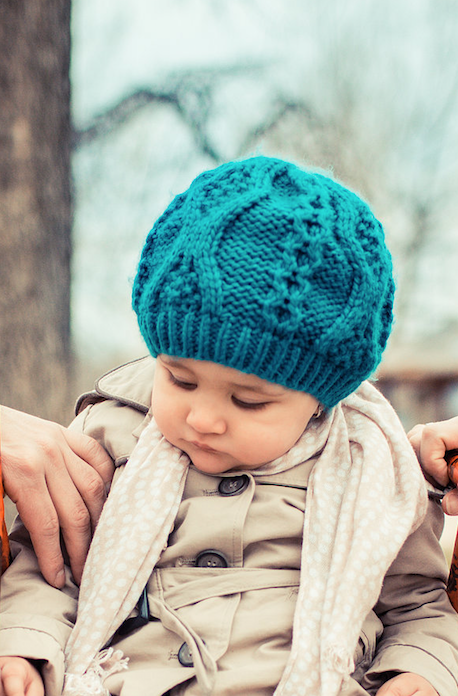
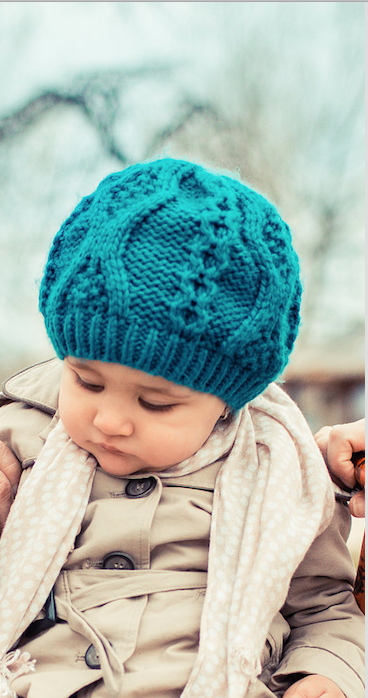
mobile and tablet views

diff --git a/app/assets/stylesheets/_home.scss b/app/assets/stylesheets/_home.scss
@@ -14,14 +14,6 @@ body{
   justify-content: space-between;
 
 }
-// .header-home-title h2{
-//   width: 25%;
-//   font-size: 45px;
-//   color: $darkblue;
-//   margin-left: 2%;
-//   letter-spacing: 1px;
-//   font-weight: 500;
-// }
 .header-home-title img{
   width: 29%;
   height: 65px;
@@ -41,39 +33,23 @@ body{
 }
 .central-home{
   background-image: url('baby2.png');
+  background-repeat: no-repeat;
   width: 100%;
   height: 549px;
-  //@extend .clearfix;
-  content: " "; /* 1 */
-  display: table; /* 2 */
-  clear: both;
-
+  display: flex;
+  flex-direction: row;
+  justify-content: space-between;
 }
 
 .text-1-3{
-  width: 22%;
-  //@extend .clearfix;
-  content: " "; /* 1 */
-  display: table; /* 2 */
-  clear: both;
-  float: left;
-  position: absolute;
+  width: 290px;
   background: rgba(255,255,255,0.4);
   color: $darkblue;
-  height: 564px;
-  padding: 10px 10px 10px 10px;
 }
 .text-3-3{
-  width: 22%;
-  //@extend .clearfix;
-  content: " "; /* 1 */
-  display: table; /* 2 */
-  clear: both;
-  float: right;
+  width: 290px;
   background: rgba(255,255,255,0.4);
   color: $darkblue;
-  height: 564px;
-  padding: 10px 10px 10px 10px;
 }
 .text-1-3 p,.text-3-3 p{
   font-size: 17px;
@@ -144,7 +120,8 @@ body{
   }
 }
 
-@media (max-width: 774px) and (min-width: 551px){      //TABLET
+//TABLET VIEW
+@media (max-width: 774px) and (min-width: 491px){
   .header-home-title img{
     width: 55%;
   }
@@ -152,25 +129,34 @@ body{
     background-image: url('baby-tablet.png');
     background-size: 780px 800px;
   }
-  .text-1-3{
-    width: 30%;
-    height: 564px;
+  .bottom-home{
+    display: flex;
+    flex-wrap: wrap;
   }
-  .tex-3-3{
-    width: 30%;
+  .personal-contact{
+    width: 40%;
+    span{
+      font-size: 20px;
+    }
+    img{
+      height: 100px
+    }
+    .fa{
+      font-size: 1.5em;
+      margin-right: 10px;
+    }
   }
-
-
 }
 
-@media screen and (max-width: 550px) {           //MOBILE
+ //MOBILE VIEW
+@media screen and (max-width: 490px) {
   .header-home-title img{
-    width: 55%;
+    width: 65%;
   }
 
   .central-home{
     background-image: url('baby-mobile.png');
-    background-size: 500px 600px;
+    background-size: 500px 800px;
   }
 
   .text-1-3{
@@ -210,10 +196,7 @@ body{
       margin-right: 10px;
     }
   }
-
 }
-
-
 
 //END OF NEW HOME PAGE
 
